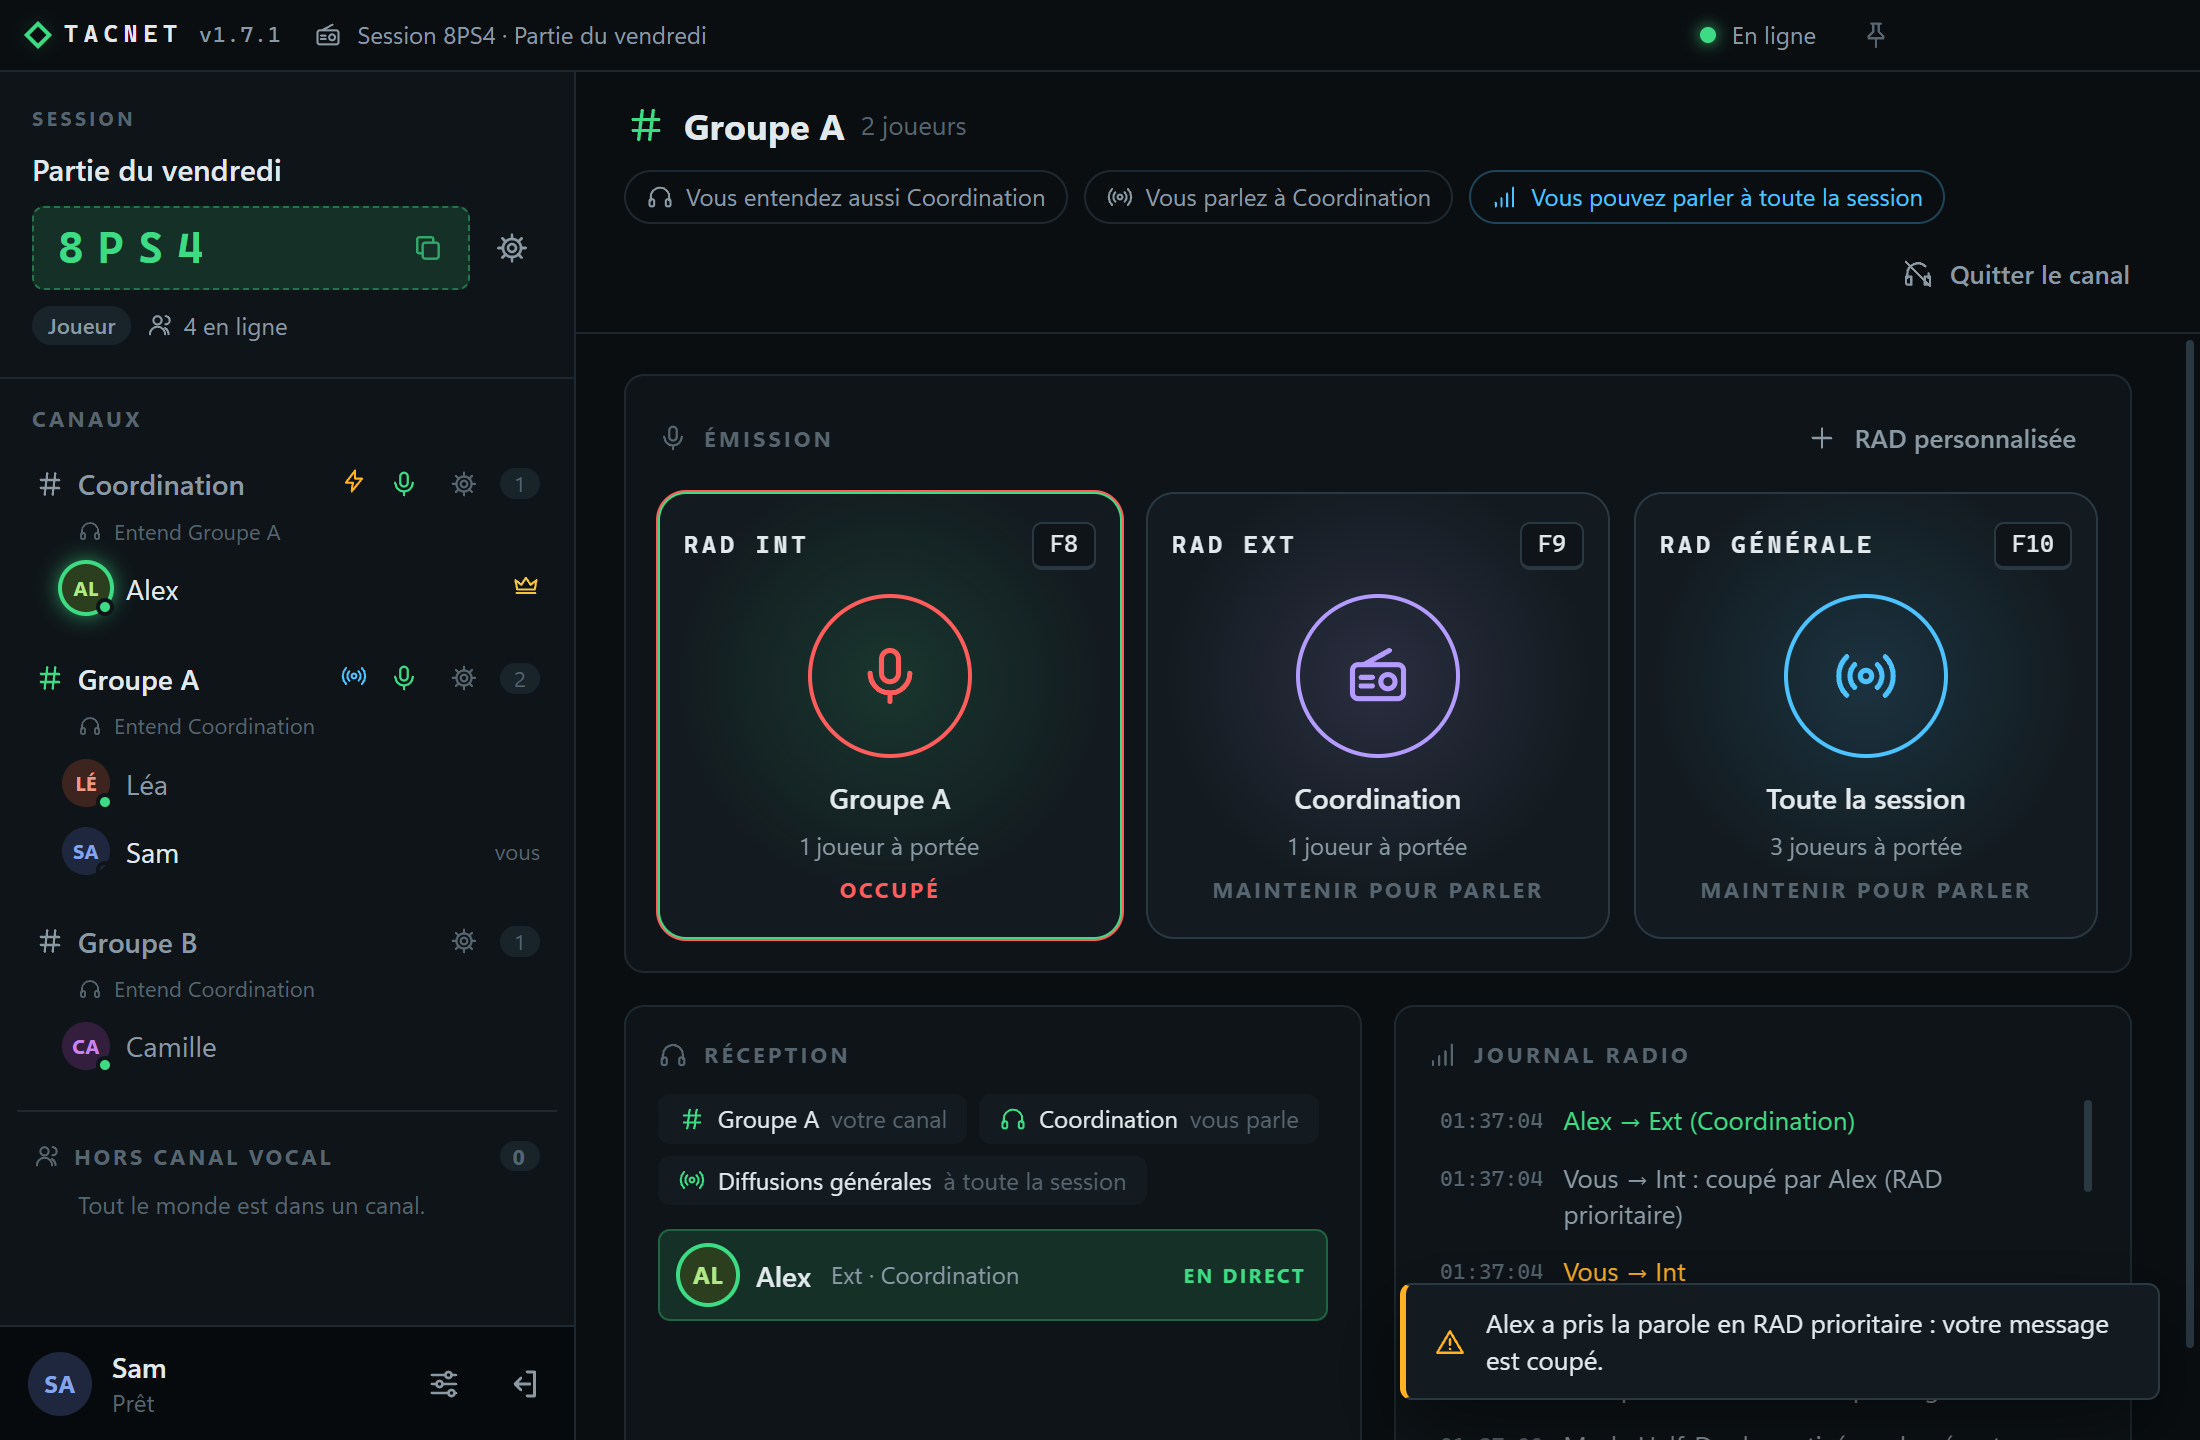
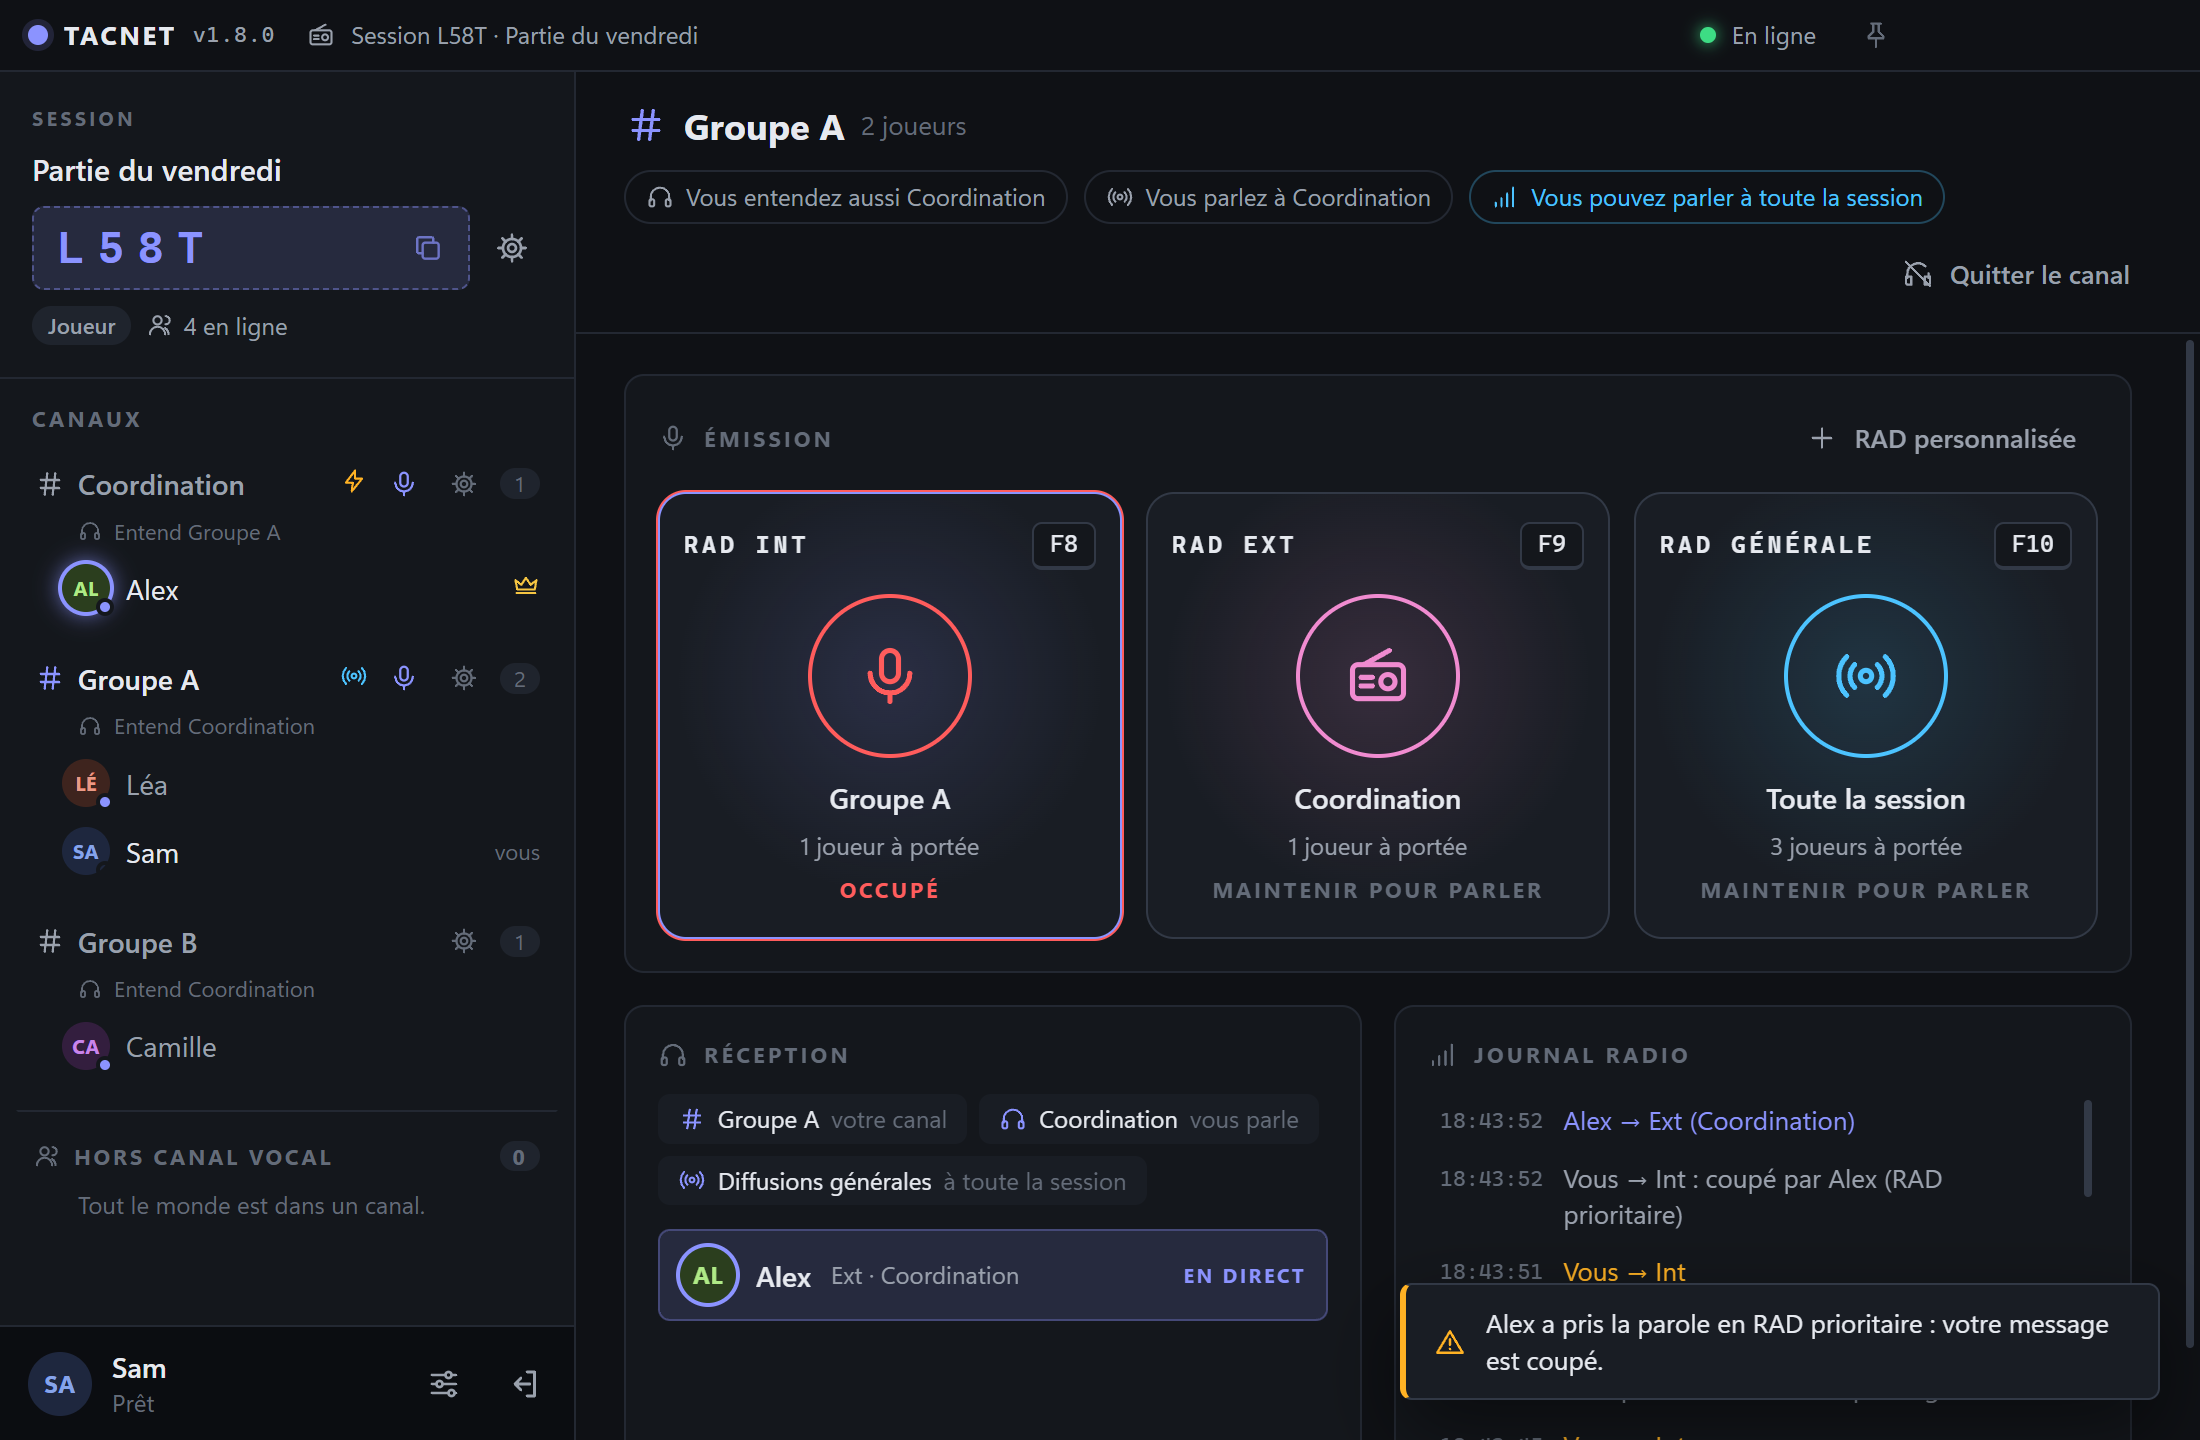
Page : quatre thèmes, overlay des canaux en jeu, réglages radio personnels, commandes de mise à jour Docker, nouvelles captures

diff --git a/README.md b/README.md
@@ -6,6 +6,8 @@
 
 TACNET est une application Windows. Une personne crée une session et partage un code de 4 caractères ; les autres la rejoignent et choisissent leur canal. Le serveur ne fait que mettre les joueurs en relation : la voix circule directement entre eux.
 
+Parties de jeu en équipe, soirées, réunions, événements : TACNET sert dès qu'il faut parler à plusieurs, par petits groupes.
+
 ![Vue d'un joueur dans TACNET](docs/vue-joueur.png)
 
 ## Ce que permet TACNET
@@ -13,7 +15,9 @@ TACNET est une application Windows. Une personne crée une session et partage un
 - **Sessions et canaux** : un code à 4 caractères, des canaux créés par le gérant, et un tableau **Qui parle à qui** pour choisir à quels canaux chaque canal parle.
 - **Parler comme à la radio** : la **RAD** (radio) vers son canal (Int), vers les canaux reliés (Ext), vers toute la session (Général) ou vers un seul canal. Les touches se règlent et fonctionnent même quand une autre fenêtre, un jeu par exemple, est au premier plan.
 - **Rôles** : gérant, adjoint, joueur, auditeur, et des rôles personnalisés réglés option par option.
-- **Mode Half-Duplex et RAD prioritaire** : un seul émetteur à la fois vers un canal. Avec l'option **RAD prioritaire**, les canaux que choisit le gérant, le commandement par exemple, coupent aussitôt la parole de celui qui occupe un canal qu'ils visent.
+- **Mode Half-Duplex et RAD prioritaire** : un seul émetteur à la fois vers un canal, c'est le mode de base d'une session (le Full-Duplex, plusieurs voix en même temps, reste possible). Avec l'option **RAD prioritaire**, les canaux que choisit le gérant, la coordination par exemple, coupent aussitôt la parole de celui qui occupe un canal qu'ils visent.
+- **Overlay des canaux en jeu** : maintenez une touche, faites défiler la molette, relâchez, et vous changez de canal sans quitter le jeu.
+- **À votre façon** : quatre thèmes (Sombre, Clair, Vert, Bleu), des bips radio et un effet radio sur les voix que chacun active pour lui seul, et des notifications que l'on peut couper.
 - **Canaux masqués** : chaque joueur ne voit que son propre canal, idéal pour garder le secret des équipes (exemple du Loup-Garou plus bas).
 - **Fenêtre épinglable et réductible** : le pin de la barre de titre garde TACNET au-dessus des autres fenêtres, et la fenêtre peut se réduire jusqu'à ne montrer que les canaux et ceux qui y sont.
 - **Mises à jour signalées** : un bandeau prévient quand une nouvelle version est publiée, et quand le serveur n'est pas à jour, pour que son hébergeur le sache.
@@ -118,6 +122,10 @@ Pour un NAS, un mini-serveur, un hébergeur (VPS) ou un PC : tout ce qui fait to
 
    ```yaml
    # Serveur TACNET : le seul fichier à créer
+   #
+   # Pour mettre à jour le serveur proprement (deux commandes, dans le dossier de ce fichier) :
+   #   docker compose build --no-cache
+   #   docker compose up -d
    services:
      tacnet:
        # Construit depuis le dépôt public de TACNET, comme Render
@@ -162,7 +170,14 @@ Il reste à donner l'accès aux joueurs :
 2. Donnez aux joueurs l'adresse `wss://ADRESSE-DU-SERVEUR:8080`, le mot de passe et l'empreinte.
 3. Ouvrez le port 8080 (ou celui que vous avez choisi en changeant le premier nombre de `ports`), et redirigez-le depuis votre box pour jouer hors de votre réseau.
 
-Pour mettre à jour : `docker compose build --no-cache`, puis `docker compose up -d`. Pseudos, sessions et certificat restent dans le volume Docker. Le fichier contient le mot de passe en clair : ne le partagez pas.
+**Pour mettre à jour**, deux commandes, dans le dossier du serveur (elles sont aussi écrites en commentaire en haut du fichier) :
+
+```
+docker compose build --no-cache
+docker compose up -d
+```
+
+Pas de `docker compose pull` ici : le serveur est construit depuis GitHub, il n'y a pas d'image toute faite à télécharger. Pseudos, sessions et certificat restent dans le volume Docker. Le fichier contient le mot de passe en clair : ne le partagez pas.
 
 **Un nom de domaine avec HTTPS** (une adresse simple, et plus d'empreinte à donner) : suivez le [guide Domaine et HTTPS](docs/domaine-et-https.md). Il ajoute Caddy à ce même fichier, mais n'importe quel autre reverse proxy (Nginx, Traefik…) convient aussi, et le guide l'explique.
 
@@ -207,6 +222,18 @@ La voix ne passe par aucun de ces services : elle circule directement entre les 
 | RAD prioritaire : le gérant choisit les canaux prioritaires | Ce que voit celui dont la parole est coupée |
 |---|---|
 | ![Fenêtre « RAD prioritaire » : le canal Coordination est prioritaire](docs/rad-prioritaire.png) | ![Un joueur du Groupe A coupé par le canal Coordination : bouton « Occupé », message et journal radio](docs/rad-coupure.png) |
+
+**Quatre thèmes**, au choix dans *Paramètres > Personnalisation* : Sombre, Clair, Vert et Bleu. Le thème change tout de suite, et chacun choisit le sien.
+
+![La même session dans les quatre thèmes : Sombre, Clair, Vert et Bleu](docs/themes.png)
+
+| Paramètres > Personnalisation : thème, bips et effet radio | Paramètres > Overlay : la touche à maintenir en jeu |
+|---|---|
+| ![Paramètres, catégorie Personnalisation : les quatre thèmes, les bips radio et l'effet radio sur les voix](docs/parametres-personnalisation.png) | ![Paramètres, catégorie Overlay : touche de l'overlay, position et aperçu](docs/parametres-overlay.png) |
+
+**L'overlay des canaux en jeu.** En maintenant la touche choisie, la liste des canaux s'affiche par-dessus le jeu (ici sur un fond neutre) : la molette choisit un canal, et relâcher la touche y emmène. La notification « qui parle » apparaît en bas à droite, et elle se coupe dans les paramètres.
+
+![L'overlay des canaux à gauche de l'écran, avec la notification « qui parle » en bas à droite, sur un fond neutre](docs/overlay-en-jeu.png)
 
 ## Exemple : le Loup-Garou à 10 joueurs
 

diff --git a/docs/domaine-et-https.md b/docs/domaine-et-https.md
@@ -58,6 +58,11 @@ nano docker-compose.yml
 
 ```yaml
 # Serveur TACNET + Caddy (domaine et HTTPS) : le seul fichier à changer
+#
+# Pour mettre à jour le serveur proprement (deux commandes, dans le dossier de ce fichier) :
+#   docker compose build --no-cache
+#   docker compose up -d
+# (Pour mettre à jour Caddy aussi, ajoutez « docker compose pull » avant la seconde.)
 services:
   tacnet:
     # Construit depuis le dépôt public de TACNET, comme Render
